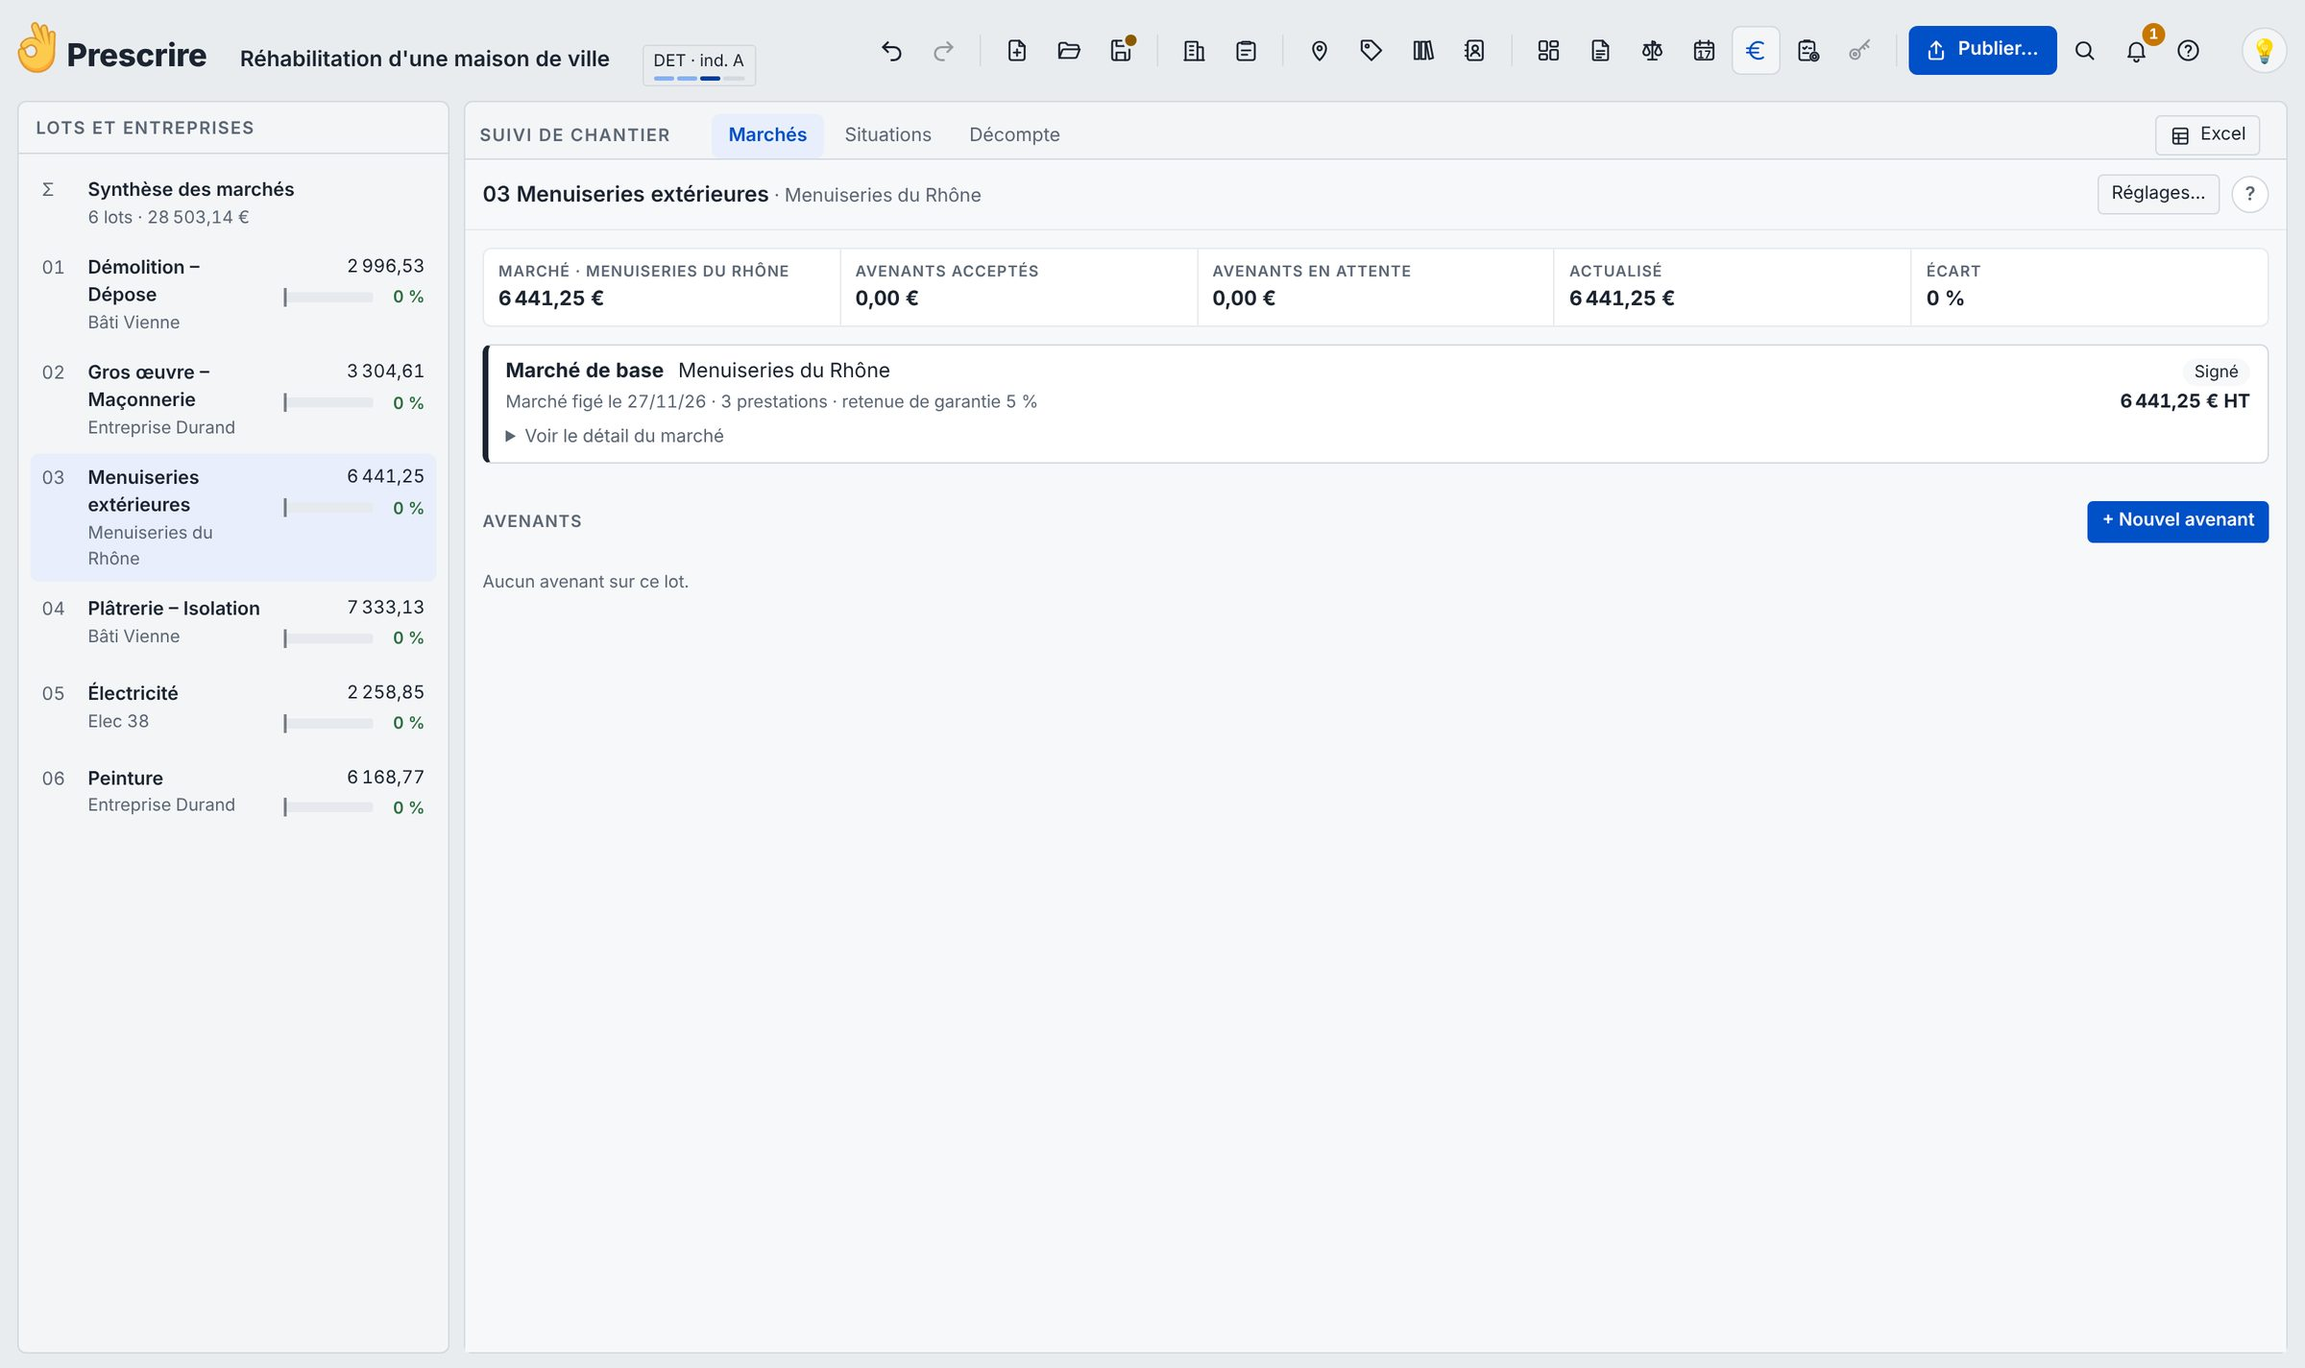
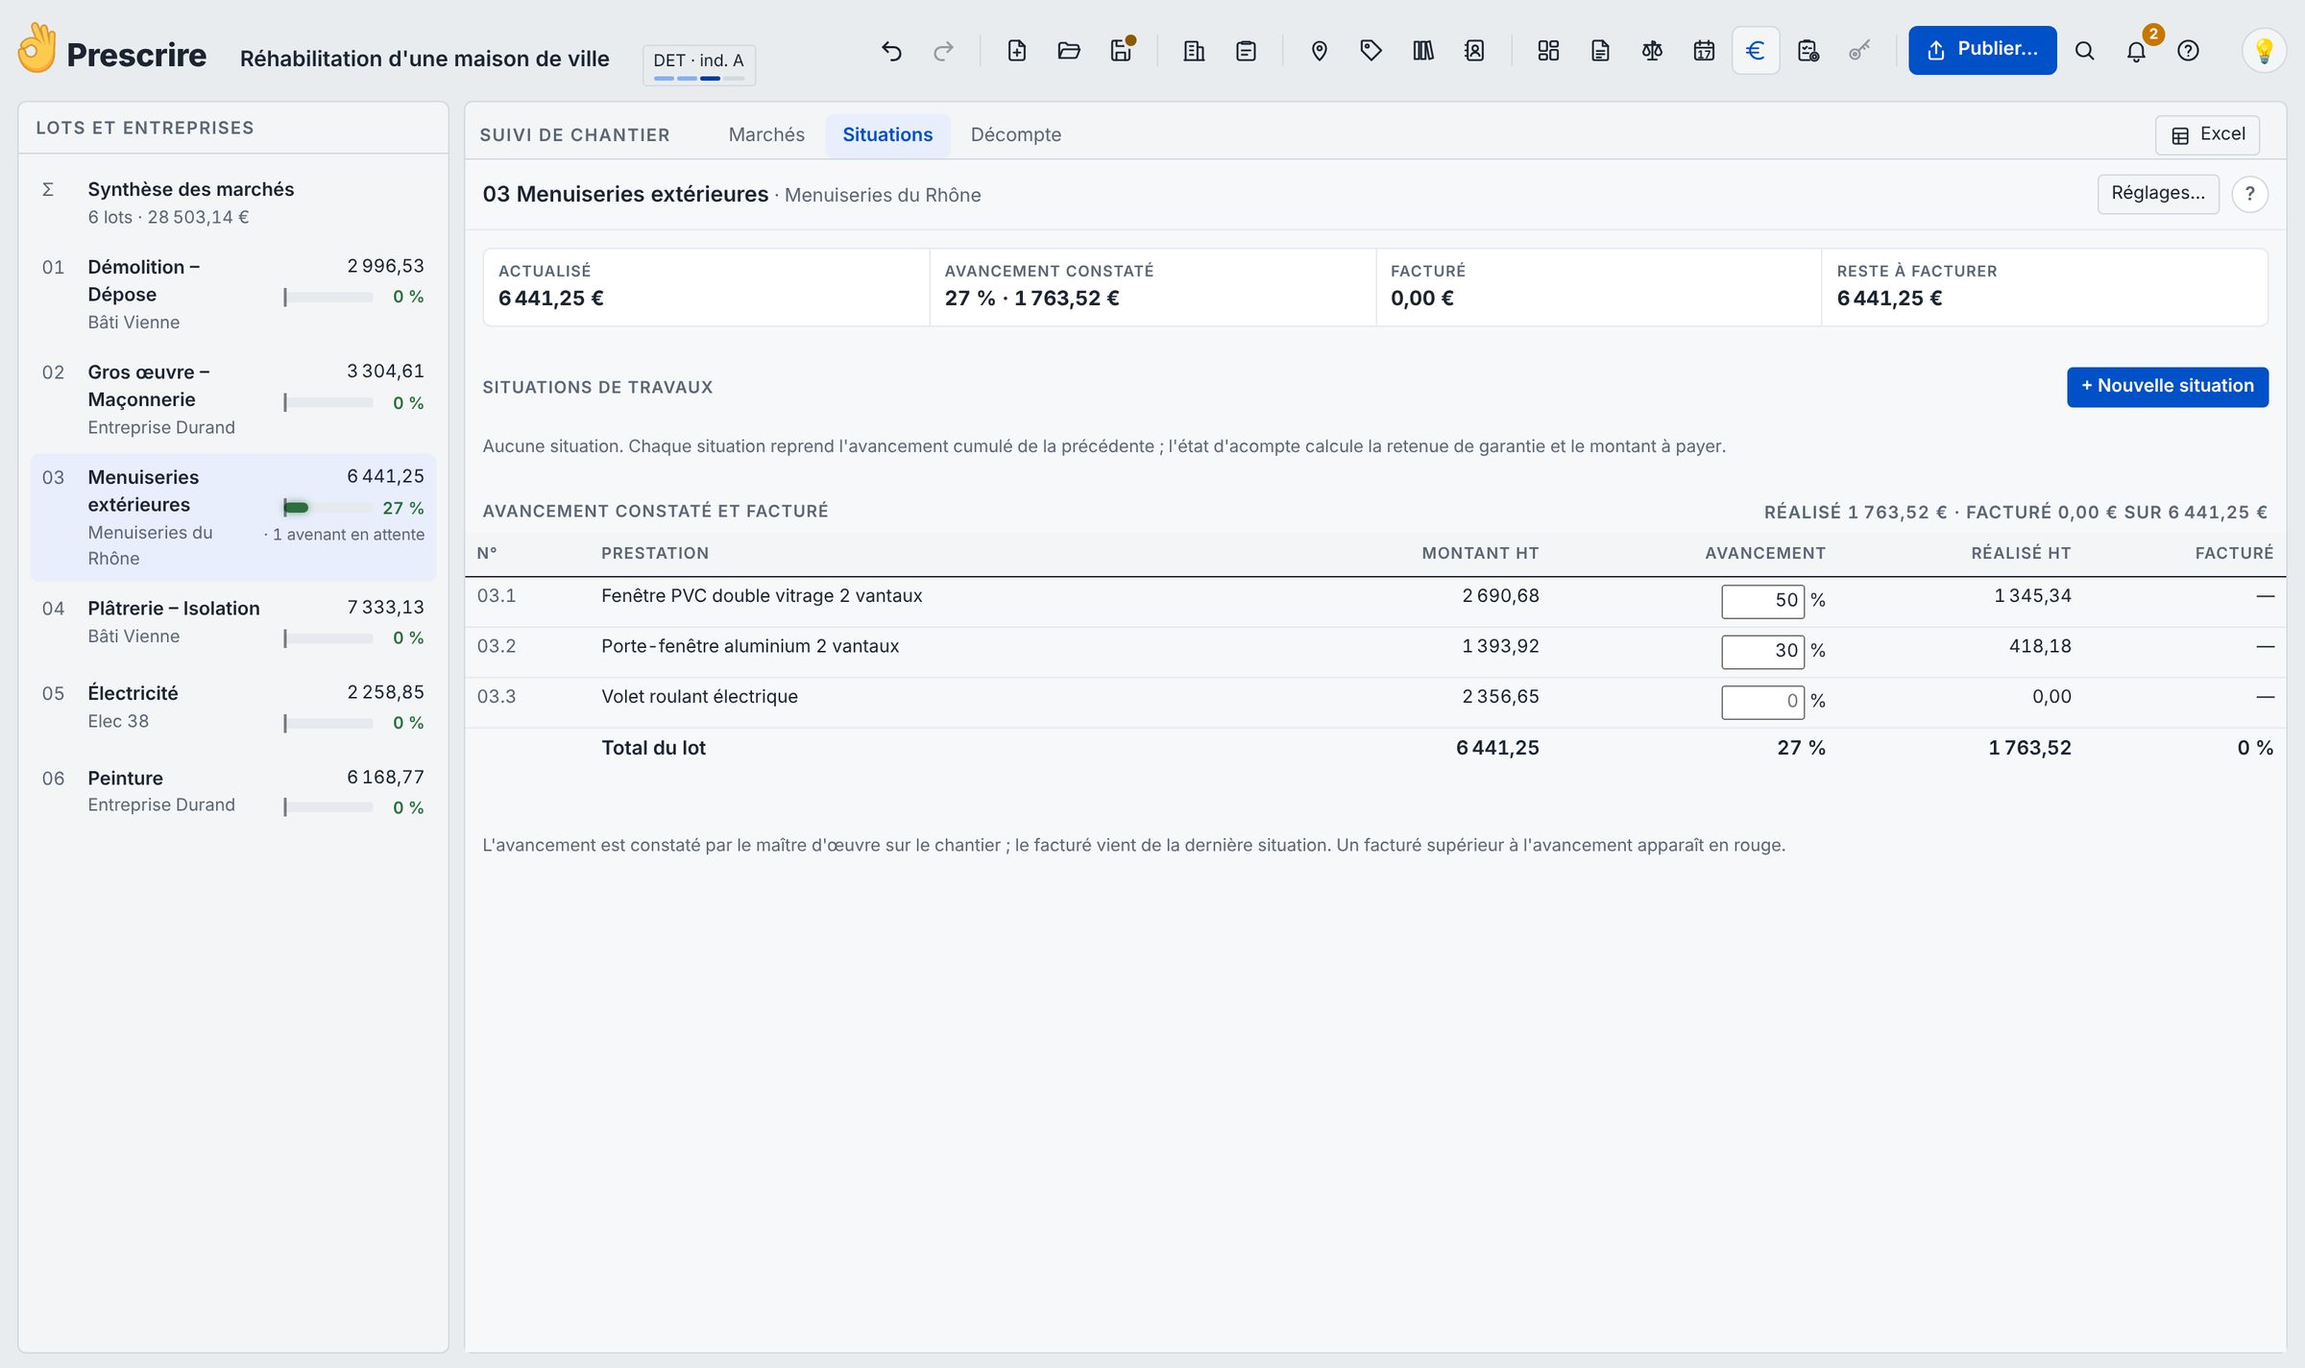
Site : galerie en carrousel large + captures Pro enrichies
- Galerie désormais en carrousel large (une capture à la fois, flèches,
  points et compteur ; défilement natif avec accroche) au lieu de la mosaïque
- Suivi de chantier : situation avec avancement (50/50/30), réalisé et
  avenant en attente, au lieu de l'écran vide
- Réception : procédure CCAG / EXE4-5-6 activée avec une réserve relevée
- Compte rendu régénéré proprement (sans notification)

Claude-Session: https://claude.ai/code/session_01TVMFLAbRP3Nzzpx7bDmehw

diff --git a/docs/index.html b/docs/index.html
@@ -218,13 +218,23 @@
     .appel .btn-blanc { background: #fff; color: var(--bleu); }
     .appel .btn-blanc:hover { background: #eef4ff; }
 
-    /* Galerie de captures */
-    .galerie { display: grid; grid-template-columns: repeat(auto-fill, minmax(340px, 1fr)); gap: 22px; }
-    .shot { margin: 0; position: relative; background: #fff; border: 1px solid var(--bord); border-radius: 12px; overflow: hidden; cursor: zoom-in; box-shadow: 0 2px 8px rgba(20,30,50,.05); transition: box-shadow .15s, transform .15s; }
-    .shot:hover { box-shadow: 0 10px 26px rgba(20,30,50,.12); transform: translateY(-2px); }
-    .shot img { display: block; width: 100%; height: auto; border-bottom: 1px solid var(--bord); background: var(--surface); }
-    .shot figcaption { padding: 14px 16px; font-size: .92rem; color: var(--gris); }
-    .shot-pro { position: absolute; top: 12px; left: 12px; z-index: 2; font-family: "JetBrains Mono", monospace; font-size: 11px; font-weight: 600; letter-spacing: .04em; text-transform: uppercase; color: #fff; background: var(--bleu); padding: 3px 9px; border-radius: 5px; box-shadow: 0 2px 6px rgba(0,80,200,.3); }
+    /* Galerie — carrousel large */
+    .carousel { position: relative; max-width: 1200px; margin: 0 auto; }
+    .car-viewport { overflow-x: auto; overflow-y: hidden; border-radius: 14px; border: 1px solid var(--bord); background: #fff; box-shadow: 0 18px 50px rgba(20,30,50,.14); scroll-snap-type: x mandatory; scroll-behavior: smooth; scrollbar-width: none; -ms-overflow-style: none; }
+    .car-viewport::-webkit-scrollbar { display: none; }
+    .car-track { display: flex; }
+    .cslide { position: relative; flex: 0 0 100%; min-width: 100%; margin: 0; scroll-snap-align: start; box-sizing: border-box; }
+    .cslide img { display: block; width: 100%; height: auto; cursor: zoom-in; background: var(--surface); }
+    .cslide figcaption { padding: 16px 20px; font-size: .98rem; color: var(--gris); border-top: 1px solid var(--bord); background: #fff; }
+    .shot-pro { position: absolute; top: 14px; left: 14px; z-index: 2; font-family: "JetBrains Mono", monospace; font-size: 12px; font-weight: 600; letter-spacing: .04em; text-transform: uppercase; color: #fff; background: var(--bleu); padding: 4px 10px; border-radius: 5px; box-shadow: 0 2px 6px rgba(0,80,200,.3); }
+    .car-btn { position: absolute; top: 50%; transform: translateY(-50%); z-index: 5; width: 48px; height: 48px; border-radius: 50%; border: 1px solid var(--bord); background: rgba(255,255,255,.95); color: var(--encre); font-size: 1.5rem; line-height: 1; cursor: pointer; box-shadow: 0 4px 14px rgba(20,30,50,.18); display: flex; align-items: center; justify-content: center; transition: background .15s, color .15s; }
+    .car-btn:hover { background: var(--bleu); color: #fff; border-color: var(--bleu); }
+    .car-prev { left: -22px; } .car-next { right: -22px; }
+    .car-dots { display: flex; justify-content: center; gap: 9px; margin-top: 22px; flex-wrap: wrap; }
+    .car-dot { width: 9px; height: 9px; border-radius: 50%; border: 0; padding: 0; background: var(--bord); cursor: pointer; transition: background .15s, transform .15s; }
+    .car-dot.actif { background: var(--bleu); transform: scale(1.3); }
+    .car-compteur { text-align: center; color: var(--gris-doux); font-size: .85rem; margin-top: 10px; font-family: "JetBrains Mono", monospace; }
+    @media (max-width: 1260px) { .car-prev { left: 8px; } .car-next { right: 8px; } }
     .shot-lightbox { position: fixed; inset: 0; z-index: 100; background: rgba(15,20,30,.85); display: flex; align-items: center; justify-content: center; padding: 28px; cursor: zoom-out; }
     .shot-lightbox[hidden] { display: none; }
     .shot-lightbox figure { margin: 0; max-width: 1200px; width: 100%; }
@@ -9656,51 +9666,23 @@ if(T)initApp();
           <h2>Un aperçu de Prescrire, de la rédaction au chantier</h2>
           <p class="lead">De la rédaction du CCTP et de la DPGF jusqu'au suivi financier du chantier et à la réception : un aperçu des écrans de Prescrire.</p>
         </div>
-        <div class="galerie">
-          <figure class="shot" onclick="ouvrirShot('captures/tableau-de-bord.jpg','Tableau de bord : estimation, avancement de la rédaction, répartition par lot et meilleures offres, d\'un coup d\'œil.')">
-            <img src="captures/tableau-de-bord.jpg" alt="Tableau de bord de Prescrire" loading="lazy">
-            <figcaption>Tableau de bord : estimation, avancement et répartition.</figcaption>
-          </figure>
-          <figure class="shot" onclick="ouvrirShot('captures/cctp.jpg','Rédaction du CCTP : l\'arbre des lots, la fiche de prestation et l\'aperçu du CCTP mis à jour en direct.')">
-            <img src="captures/cctp.jpg" alt="Rédaction du CCTP dans Prescrire" loading="lazy">
-            <figcaption>Rédaction du CCTP : les trois colonnes, aperçu en direct.</figcaption>
-          </figure>
-          <figure class="shot" onclick="ouvrirShot('captures/dpgf.jpg','DPGF : récapitulatif par lot, sous-totaux de TVA par taux, total HT et TTC, base et PSE.')">
-            <img src="captures/dpgf.jpg" alt="DPGF récapitulative" loading="lazy">
-            <figcaption>DPGF : récapitulatif, TVA par taux, HT et TTC.</figcaption>
-          </figure>
-          <figure class="shot" onclick="ouvrirShot('captures/offres.jpg','Analyse des offres : comparatif des entreprises, écarts à l\'estimation, moins-disant et prix manquants, lot par lot.')">
-            <img src="captures/offres.jpg" alt="Analyse comparative des offres" loading="lazy">
-            <figcaption>Analyse des offres : écarts et moins-disant par lot.</figcaption>
-          </figure>
-          <figure class="shot" onclick="ouvrirShot('captures/sombre.jpg','Mode sombre : la même interface, reposante pour les longues séances de rédaction.')">
-            <img src="captures/sombre.jpg" alt="Prescrire en mode sombre" loading="lazy">
-            <figcaption>Mode sombre, au choix.</figcaption>
-          </figure>
-          <figure class="shot" onclick="ouvrirShot('captures/aide.jpg','Aide intégrée et visite guidée pour prendre l\'outil en main rapidement.')">
-            <img src="captures/aide.jpg" alt="Aide intégrée de Prescrire" loading="lazy">
-            <figcaption>Aide intégrée et visite guidée.</figcaption>
-          </figure>
-          <figure class="shot" onclick="ouvrirShot('captures/planning.jpg','Planning des travaux : enchaînement des lots en diagramme de Gantt, calé sur les jours ouvrés, export Excel et PDF A3.')">
-            <span class="shot-pro">Pro</span>
-            <img src="captures/planning.jpg" alt="Planning des travaux (Gantt)" loading="lazy">
-            <figcaption>Planning : enchaînement des lots, export Excel et PDF A3.</figcaption>
-          </figure>
-          <figure class="shot" onclick="ouvrirShot('captures/chantier.jpg','Suivi financier du chantier : marchés signés, avenants, montant actualisé et écart, lot par lot.')">
-            <span class="shot-pro">Pro</span>
-            <img src="captures/chantier.jpg" alt="Suivi financier du chantier" loading="lazy">
-            <figcaption>Suivi de chantier : marchés, avenants et écarts.</figcaption>
-          </figure>
-          <figure class="shot" onclick="ouvrirShot('captures/comptes-rendus.jpg','Comptes rendus de chantier : présences, diffusion et observations par lot, reprise des points non levés, export PDF.')">
-            <span class="shot-pro">Pro</span>
-            <img src="captures/comptes-rendus.jpg" alt="Comptes rendus de chantier" loading="lazy">
-            <figcaption>Comptes rendus : présences, observations par lot.</figcaption>
-          </figure>
-          <figure class="shot" onclick="ouvrirShot('captures/reception.jpg','Réception des travaux : réserves par lot, procès-verbaux et procédure du CCAG (formulaires EXE) pour les marchés publics.')">
-            <span class="shot-pro">Pro</span>
-            <img src="captures/reception.jpg" alt="Réception des travaux" loading="lazy">
-            <figcaption>Réception : réserves, PV et procédure CCAG (EXE).</figcaption>
-          </figure>
+        <div class="carousel">
+          <button class="car-btn car-prev" type="button" aria-label="Précédent" onclick="carGo(-1)">‹</button>
+          <div class="car-viewport"><div class="car-track" id="car-track">
+            <figure class="cslide"><img src="captures/tableau-de-bord.jpg" alt="Tableau de bord — estimation, avancement et répartition." loading="eager" onclick="ouvrirShot('captures/tableau-de-bord.jpg','Tableau de bord : estimation, avancement de la rédaction, répartition par lot et meilleures offres, d\'un coup d\'œil.')"><figcaption>Tableau de bord — estimation, avancement et répartition.</figcaption></figure>
+            <figure class="cslide"><img src="captures/cctp.jpg" alt="Rédaction du CCTP — les trois colonnes, aperçu en direct." loading="lazy" onclick="ouvrirShot('captures/cctp.jpg','Rédaction du CCTP : l\'arbre des lots, la fiche de prestation et l\'aperçu du CCTP mis à jour en direct.')"><figcaption>Rédaction du CCTP — les trois colonnes, aperçu en direct.</figcaption></figure>
+            <figure class="cslide"><img src="captures/dpgf.jpg" alt="DPGF — récapitulatif, TVA par taux, HT et TTC." loading="lazy" onclick="ouvrirShot('captures/dpgf.jpg','DPGF : récapitulatif par lot, sous-totaux de TVA par taux, total HT et TTC, base et PSE.')"><figcaption>DPGF — récapitulatif, TVA par taux, HT et TTC.</figcaption></figure>
+            <figure class="cslide"><img src="captures/offres.jpg" alt="Analyse des offres — écarts et moins-disant par lot." loading="lazy" onclick="ouvrirShot('captures/offres.jpg','Analyse des offres : comparatif des entreprises, écarts à l\'estimation, moins-disant et prix manquants, lot par lot.')"><figcaption>Analyse des offres — écarts et moins-disant par lot.</figcaption></figure>
+            <figure class="cslide"><img src="captures/sombre.jpg" alt="Mode sombre, au choix." loading="lazy" onclick="ouvrirShot('captures/sombre.jpg','Mode sombre : la même interface, reposante pour les longues séances de rédaction.')"><figcaption>Mode sombre, au choix.</figcaption></figure>
+            <figure class="cslide"><img src="captures/aide.jpg" alt="Aide intégrée et visite guidée." loading="lazy" onclick="ouvrirShot('captures/aide.jpg','Aide intégrée et visite guidée pour prendre l\'outil en main rapidement.')"><figcaption>Aide intégrée et visite guidée.</figcaption></figure>
+            <figure class="cslide"><span class="shot-pro">Pro</span><img src="captures/planning.jpg" alt="Planning — enchaînement des lots, export Excel et PDF A3." loading="lazy" onclick="ouvrirShot('captures/planning.jpg','Planning des travaux : enchaînement des lots en diagramme de Gantt, calé sur les jours ouvrés, export Excel et PDF A3.')"><figcaption>Planning — enchaînement des lots, export Excel et PDF A3.</figcaption></figure>
+            <figure class="cslide"><span class="shot-pro">Pro</span><img src="captures/chantier.jpg" alt="Suivi de chantier — avancement, situations et avenants." loading="lazy" onclick="ouvrirShot('captures/chantier.jpg','Suivi financier du chantier : avancement constaté et réalisé par prestation, situations d\'acompte, marchés signés et avenants.')"><figcaption>Suivi de chantier — avancement, situations et avenants.</figcaption></figure>
+            <figure class="cslide"><span class="shot-pro">Pro</span><img src="captures/comptes-rendus.jpg" alt="Comptes rendus — présences et observations par lot." loading="lazy" onclick="ouvrirShot('captures/comptes-rendus.jpg','Comptes rendus de chantier : présences, diffusion et observations par lot, reprise des points non levés, export PDF.')"><figcaption>Comptes rendus — présences et observations par lot.</figcaption></figure>
+            <figure class="cslide"><span class="shot-pro">Pro</span><img src="captures/reception.jpg" alt="Réception — réserves, PV et procédure CCAG (EXE)." loading="lazy" onclick="ouvrirShot('captures/reception.jpg','Réception des travaux : réserves par lot, procès-verbaux et procédure du CCAG (formulaires EXE4 à EXE9) pour les marchés publics.')"><figcaption>Réception — réserves, PV et procédure CCAG (EXE).</figcaption></figure>
+          </div></div>
+          <button class="car-btn car-next" type="button" aria-label="Suivant" onclick="carGo(1)">›</button>
+          <div class="car-dots" id="car-dots"></div>
+          <div class="car-compteur" id="car-compteur"></div>
         </div>
       </div>
       <div id="shot-lightbox" class="shot-lightbox" onclick="fermerShot()" hidden>
@@ -9833,6 +9815,30 @@ if(T)initApp();
       </span>
     </div>
   </footer>
+
+  <script>
+    // Carrousel de la galerie (défilement natif avec accroche)
+    var carIdx=0;
+    function carVp(){return document.querySelector(".car-viewport");}
+    function carCount(){return document.querySelectorAll("#car-track .cslide").length;}
+    function carW(){return carVp().clientWidth;}
+    function carDots(){
+      var dots=document.querySelectorAll("#car-dots .car-dot");
+      dots.forEach(function(d,i){d.classList.toggle("actif",i===carIdx);});
+      var c=document.getElementById("car-compteur");if(c)c.textContent=(carIdx+1)+" / "+carCount();
+    }
+    function carSet(i){var n=carCount();carIdx=(i%n+n)%n;var sl=document.querySelectorAll("#car-track .cslide")[carIdx];carVp().scrollTo({left:sl?sl.offsetLeft:carIdx*carW(),behavior:"smooth"});carDots();}
+    function carGo(step){carSet(carIdx+step);}
+    (function(){
+      var n=carCount(),dd=document.getElementById("car-dots");
+      if(dd){for(var i=0;i<n;i++){var b=document.createElement("button");b.className="car-dot";b.type="button";b.setAttribute("aria-label","Vue "+(i+1));(function(k){b.onclick=function(){carSet(k);};})(i);dd.appendChild(b);}}
+      var vp=carVp(),tmr=null;
+      vp.addEventListener("scroll",function(){if(tmr)clearTimeout(tmr);tmr=setTimeout(function(){var sls=document.querySelectorAll("#car-track .cslide"),best=0,bd=1e9;sls.forEach(function(x,i){var d=Math.abs(x.offsetLeft-vp.scrollLeft);if(d<bd){bd=d;best=i;}});carIdx=best;carDots();},90);});
+      window.addEventListener("keydown",function(e){if(document.getElementById("shot-lightbox").hidden){if(e.key==="ArrowLeft")carGo(-1);if(e.key==="ArrowRight")carGo(1);}});
+      window.addEventListener("resize",function(){var sl=document.querySelectorAll("#car-track .cslide")[carIdx];if(sl)vp.scrollLeft=sl.offsetLeft;});
+      carDots();
+    })();
+  </script>
 
   <script>
     // Galerie : ouverture/fermeture de l'agrandissement
